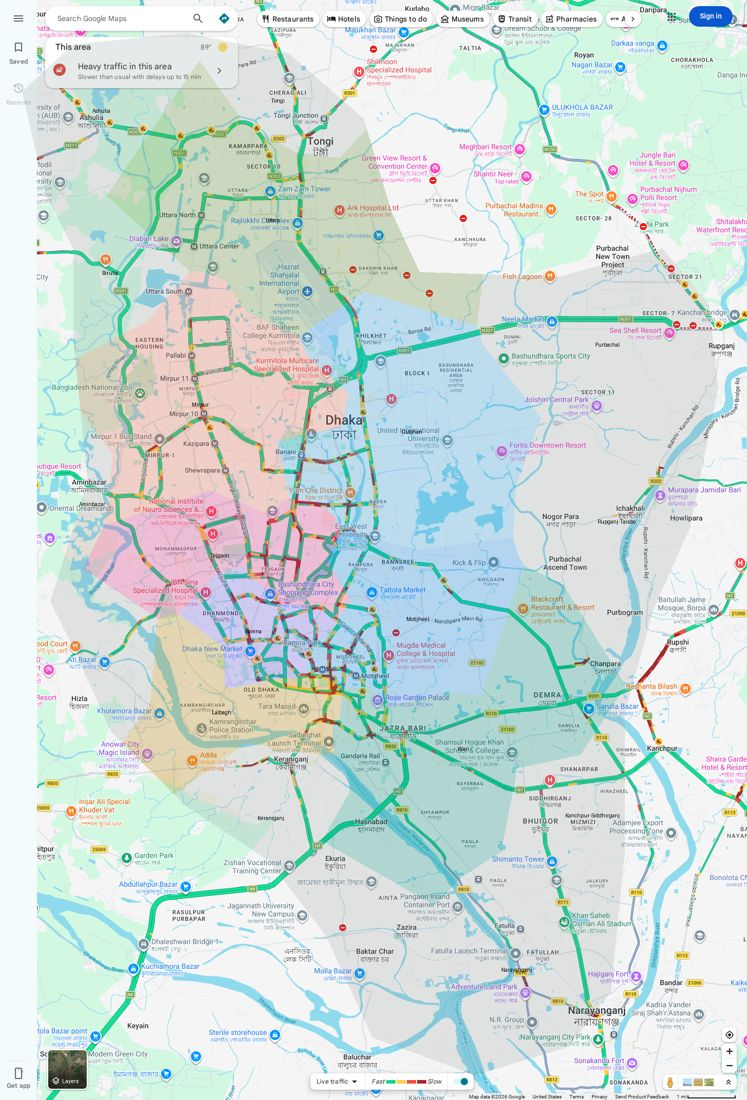
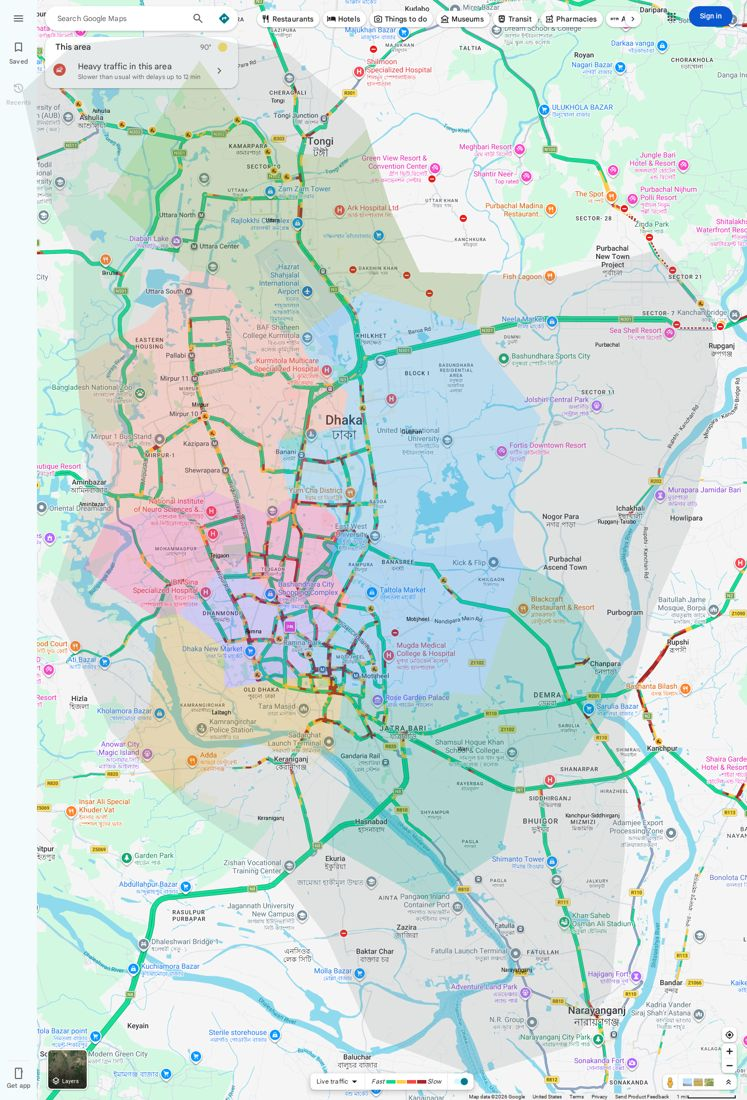
snapshot slot 6

diff --git a/docs/index.html b/docs/index.html
@@ -109,7 +109,7 @@ footer{color:var(--muted);font-size:.85rem;margin-top:20px;max-width:72ch}
   </footer>
 </main>
 <script>
-const D = {"empty": false, "updated": "12 Oct 2026, 10:54", "last_snapshot": "12 Oct 2026, 10:54", "day_number": 1, "total_days": 30, "snapshots": 6, "per_day": 150, "drive_ok": 6, "div_meta": {"Ramna": {"bn": "রমনা"}, "Lalbagh": {"bn": "লালবাগ"}, "Motijheel": {"bn": "মতিঝিল"}, "Wari": {"bn": "ওয়ারী"}, "Tejgaon": {"bn": "তেজগাঁও"}, "Mirpur": {"bn": "মিরপুর"}, "Gulshan": {"bn": "গুলশান"}, "Uttara": {"bn": "উত্তরা"}, "Ashulia": {"bn": "আশুলিয়া"}, "Birulia": {"bn": "বিরুলিয়া"}, "Aminbazar": {"bn": "আমিনবাজার"}, "Tongi": {"bn": "টঙ্গী"}, "Purbachal": {"bn": "পূর্বাচল"}, "Rupganj-Tarabo": {"bn": "রূপগঞ্জ–তারাবো"}, "Kanchpur-Siddhirganj": {"bn": "কাঁচপুর–সিদ্ধিরগঞ্জ"}, "Narayanganj": {"bn": "নারায়ণগঞ্জ ও ফতুল্লা"}, "Keraniganj": {"bn": "কেরানীগঞ্জ"}}, "mode": "web", "days": [{"date": "2026-10-12", "weekday": "Monday", "weekday_bn": "সোমবার", "day_type": "Workday", "day_type_bn": "কর্মদিবস", "holiday": null, "hours": 1, "city_avg": 16.2, "city_peak": 16.2, "peak_hour": 10, "worst_zone": "Lalbagh", "worst_zone_score": 27.6, "rain_mm": 0.2, "rain_hours": 0, "rain_effect": null, "baseline": null, "level": "na", "level_bn": "তুলনার জন্য এখনো যথেষ্ট দিন হয়নি", "tags": [], "headlines": [], "reasons": ["আংশিক দিন: 1/24 ঘণ্টার তথ্য"], "ai": null}], "heat": [{"date": "2026-10-12", "values": [null, null, null, null, null, null, null, null, null, null, 16.2, null, null, null, null, null, null, null, null, null, null, null, null, null]}], "zones": [{"zone": "Lalbagh", "bn": "লালবাগ", "dmp": true, "score": 27.6}, {"zone": "Motijheel", "bn": "মতিঝিল", "dmp": true, "score": 25.0}, {"zone": "Tejgaon", "bn": "তেজগাঁও", "dmp": true, "score": 23.9}, {"zone": "Gulshan", "bn": "গুলশান", "dmp": true, "score": 22.3}, {"zone": "Ashulia", "bn": "আশুলিয়া", "dmp": false, "score": 21.0}, {"zone": "Rupganj-Tarabo", "bn": "রূপগঞ্জ–তারাবো", "dmp": false, "score": 19.6}, {"zone": "Ramna", "bn": "রমনা", "dmp": true, "score": 18.8}, {"zone": "Tongi", "bn": "টঙ্গী", "dmp": false, "score": 18.5}, {"zone": "Keraniganj", "bn": "কেরানীগঞ্জ", "dmp": false, "score": 13.3}, {"zone": "Uttara", "bn": "উত্তরা", "dmp": true, "score": 12.0}, {"zone": "Mirpur", "bn": "মিরপুর", "dmp": true, "score": 10.5}, {"zone": "Narayanganj", "bn": "নারায়ণগঞ্জ ও ফতুল্লা", "dmp": false, "score": 10.0}, {"zone": "Wari", "bn": "ওয়ারী", "dmp": true, "score": 9.7}, {"zone": "Purbachal", "bn": "পূর্বাচল", "dmp": false, "score": 9.3}, {"zone": "Kanchpur-Siddhirganj", "bn": "কাঁচপুর–সিদ্ধিরগঞ্জ", "dmp": false, "score": 8.6}, {"zone": "Birulia", "bn": "বিরুলিয়া", "dmp": false, "score": 3.4}, {"zone": "Aminbazar", "bn": "আমিনবাজার", "dmp": false, "score": 0.0}], "zone_hour": {"Aminbazar": [null, null, null, null, null, null, null, null, null, null, 0.0, null, null, null, null, null, null, null, null, null, null, null, null, null], "Ashulia": [null, null, null, null, null, null, null, null, null, null, 21.0, null, null, null, null, null, null, null, null, null, null, null, null, null], "Birulia": [null, null, null, null, null, null, null, null, null, null, 3.4, null, null, null, null, null, null, null, null, null, null, null, null, null], "Gulshan": [null, null, null, null, null, null, null, null, null, null, 22.3, null, null, null, null, null, null, null, null, null, null, null, null, null], "Kanchpur-Siddhirganj": [null, null, null, null, null, null, null, null, null, null, 8.6, null, null, null, null, null, null, null, null, null, null, null, null, null], "Keraniganj": [null, null, null, null, null, null, null, null, null, null, 13.3, null, null, null, null, null, null, null, null, null, null, null, null, null], "Lalbagh": [null, null, null, null, null, null, null, null, null, null, 27.6, null, null, null, null, null, null, null, null, null, null, null, null, null], "Mirpur": [null, null, null, null, null, null, null, null, null, null, 10.5, null, null, null, null, null, null, null, null, null, null, null, null, null], "Motijheel": [null, null, null, null, null, null, null, null, null, null, 25.0, null, null, null, null, null, null, null, null, null, null, null, null, null], "Narayanganj": [null, null, null, null, null, null, null, null, null, null, 10.0, null, null, null, null, null, null, null, null, null, null, null, null, null], "Purbachal": [null, null, null, null, null, null, null, null, null, null, 9.3, null, null, null, null, null, null, null, null, null, null, null, null, null], "Ramna": [null, null, null, null, null, null, null, null, null, null, 18.8, null, null, null, null, null, null, null, null, null, null, null, null, null], "Rupganj-Tarabo": [null, null, null, null, null, null, null, null, null, null, 19.6, null, null, null, null, null, null, null, null, null, null, null, null, null], "Tejgaon": [null, null, null, null, null, null, null, null, null, null, 23.9, null, null, null, null, null, null, null, null, null, null, null, null, null], "Tongi": [null, null, null, null, null, null, null, null, null, null, 18.5, null, null, null, null, null, null, null, null, null, null, null, null, null], "Uttara": [null, null, null, null, null, null, null, null, null, null, 12.0, null, null, null, null, null, null, null, null, null, null, null, null, null], "Wari": [null, null, null, null, null, null, null, null, null, null, 9.7, null, null, null, null, null, null, null, null, null, null, null, null, null]}};
+const D = {"empty": false, "updated": "12 Oct 2026, 11:04", "last_snapshot": "12 Oct 2026, 11:04", "day_number": 1, "total_days": 30, "snapshots": 7, "per_day": 150, "drive_ok": 7, "div_meta": {"Ramna": {"bn": "রমনা"}, "Lalbagh": {"bn": "লালবাগ"}, "Motijheel": {"bn": "মতিঝিল"}, "Wari": {"bn": "ওয়ারী"}, "Tejgaon": {"bn": "তেজগাঁও"}, "Mirpur": {"bn": "মিরপুর"}, "Gulshan": {"bn": "গুলশান"}, "Uttara": {"bn": "উত্তরা"}, "Ashulia": {"bn": "আশুলিয়া"}, "Birulia": {"bn": "বিরুলিয়া"}, "Aminbazar": {"bn": "আমিনবাজার"}, "Tongi": {"bn": "টঙ্গী"}, "Purbachal": {"bn": "পূর্বাচল"}, "Rupganj-Tarabo": {"bn": "রূপগঞ্জ–তারাবো"}, "Kanchpur-Siddhirganj": {"bn": "কাঁচপুর–সিদ্ধিরগঞ্জ"}, "Narayanganj": {"bn": "নারায়ণগঞ্জ ও ফতুল্লা"}, "Keraniganj": {"bn": "কেরানীগঞ্জ"}}, "mode": "web", "days": [{"date": "2026-10-12", "weekday": "Monday", "weekday_bn": "সোমবার", "day_type": "Workday", "day_type_bn": "কর্মদিবস", "holiday": null, "hours": 2, "city_avg": 16.4, "city_peak": 16.6, "peak_hour": 11, "worst_zone": "Lalbagh", "worst_zone_score": 28.0, "rain_mm": 0.2, "rain_hours": 0, "rain_effect": null, "baseline": null, "level": "na", "level_bn": "তুলনার জন্য এখনো যথেষ্ট দিন হয়নি", "tags": [], "headlines": [], "reasons": ["আংশিক দিন: 2/24 ঘণ্টার তথ্য"], "ai": null}], "heat": [{"date": "2026-10-12", "values": [null, null, null, null, null, null, null, null, null, null, 16.2, 16.6, null, null, null, null, null, null, null, null, null, null, null, null]}], "zones": [{"zone": "Lalbagh", "bn": "লালবাগ", "dmp": true, "score": 28.0}, {"zone": "Motijheel", "bn": "মতিঝিল", "dmp": true, "score": 25.2}, {"zone": "Tejgaon", "bn": "তেজগাঁও", "dmp": true, "score": 23.8}, {"zone": "Gulshan", "bn": "গুলশান", "dmp": true, "score": 22.0}, {"zone": "Ashulia", "bn": "আশুলিয়া", "dmp": false, "score": 21.0}, {"zone": "Rupganj-Tarabo", "bn": "রূপগঞ্জ–তারাবো", "dmp": false, "score": 20.3}, {"zone": "Ramna", "bn": "রমনা", "dmp": true, "score": 19.3}, {"zone": "Tongi", "bn": "টঙ্গী", "dmp": false, "score": 17.9}, {"zone": "Keraniganj", "bn": "কেরানীগঞ্জ", "dmp": false, "score": 13.0}, {"zone": "Uttara", "bn": "উত্তরা", "dmp": true, "score": 12.4}, {"zone": "Mirpur", "bn": "মিরপুর", "dmp": true, "score": 10.6}, {"zone": "Narayanganj", "bn": "নারায়ণগঞ্জ ও ফতুল্লা", "dmp": false, "score": 10.1}, {"zone": "Wari", "bn": "ওয়ারী", "dmp": true, "score": 9.9}, {"zone": "Purbachal", "bn": "পূর্বাচল", "dmp": false, "score": 9.3}, {"zone": "Kanchpur-Siddhirganj", "bn": "কাঁচপুর–সিদ্ধিরগঞ্জ", "dmp": false, "score": 8.5}, {"zone": "Birulia", "bn": "বিরুলিয়া", "dmp": false, "score": 3.6}, {"zone": "Aminbazar", "bn": "আমিনবাজার", "dmp": false, "score": 0.0}], "zone_hour": {"Aminbazar": [null, null, null, null, null, null, null, null, null, null, 0.0, 0.0, null, null, null, null, null, null, null, null, null, null, null, null], "Ashulia": [null, null, null, null, null, null, null, null, null, null, 21.0, 20.6, null, null, null, null, null, null, null, null, null, null, null, null], "Birulia": [null, null, null, null, null, null, null, null, null, null, 3.4, 4.8, null, null, null, null, null, null, null, null, null, null, null, null], "Gulshan": [null, null, null, null, null, null, null, null, null, null, 22.3, 20.1, null, null, null, null, null, null, null, null, null, null, null, null], "Kanchpur-Siddhirganj": [null, null, null, null, null, null, null, null, null, null, 8.6, 8.3, null, null, null, null, null, null, null, null, null, null, null, null], "Keraniganj": [null, null, null, null, null, null, null, null, null, null, 13.3, 11.3, null, null, null, null, null, null, null, null, null, null, null, null], "Lalbagh": [null, null, null, null, null, null, null, null, null, null, 27.6, 30.2, null, null, null, null, null, null, null, null, null, null, null, null], "Mirpur": [null, null, null, null, null, null, null, null, null, null, 10.5, 10.9, null, null, null, null, null, null, null, null, null, null, null, null], "Motijheel": [null, null, null, null, null, null, null, null, null, null, 25.0, 26.2, null, null, null, null, null, null, null, null, null, null, null, null], "Narayanganj": [null, null, null, null, null, null, null, null, null, null, 10.0, 11.1, null, null, null, null, null, null, null, null, null, null, null, null], "Purbachal": [null, null, null, null, null, null, null, null, null, null, 9.3, 9.1, null, null, null, null, null, null, null, null, null, null, null, null], "Ramna": [null, null, null, null, null, null, null, null, null, null, 18.8, 22.1, null, null, null, null, null, null, null, null, null, null, null, null], "Rupganj-Tarabo": [null, null, null, null, null, null, null, null, null, null, 19.6, 24.7, null, null, null, null, null, null, null, null, null, null, null, null], "Tejgaon": [null, null, null, null, null, null, null, null, null, null, 23.9, 23.4, null, null, null, null, null, null, null, null, null, null, null, null], "Tongi": [null, null, null, null, null, null, null, null, null, null, 18.5, 14.6, null, null, null, null, null, null, null, null, null, null, null, null], "Uttara": [null, null, null, null, null, null, null, null, null, null, 12.0, 14.6, null, null, null, null, null, null, null, null, null, null, null, null], "Wari": [null, null, null, null, null, null, null, null, null, null, 9.7, 10.9, null, null, null, null, null, null, null, null, null, null, null, null]}};
 
 function scoreColor(s){
   if(s===null||s===undefined||isNaN(s)) return getComputedStyle(document.documentElement).getPropertyValue('--none');
